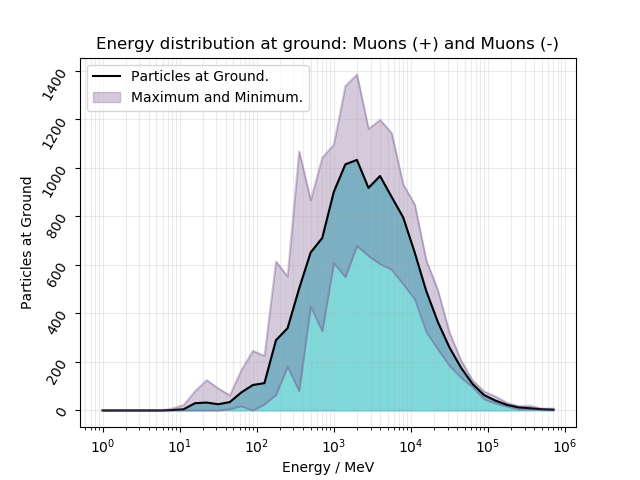
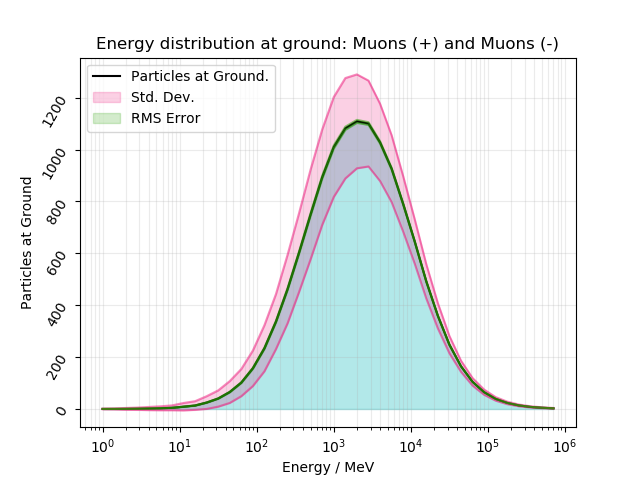
Minimal Changes:  - Removed Minimum and Maximum, Added Std.Dev. and RMS Error to diagrams.  - New data to plot, with much more showers in simulation.

diff --git a/AIRES/represent.py b/AIRES/represent.py
@@ -122,26 +122,26 @@ class Represent:
         # Mean
         y = self.data_frame['Mean']
         plt.plot(x, y, color='#000000', label='Particles at Ground.')
-        ax.fill_between(x=x, y1=y, y2=0, color='#00B5B8', alpha=0.5)
+        ax.fill_between(x=x, y1=y, y2=0, color='#00B5B8', alpha=0.3)
 
         # Minimum and Maximum
-        ymin = self.data_frame['Minimum']
-        ymax = self.data_frame['Maximum.']
-        plt.plot(x, ymin, color='#74508D', alpha=0.25)
-        plt.plot(x, ymax, color='#74508D', alpha=0.25)
-        ax.fill_between(x=x, y1=ymin, y2=ymax, color='#74508D', alpha=0.3, label='Maximum and Minimum.')
+        # ymin = self.data_frame['Minimum']
+        # ymax = self.data_frame['Maximum.']
+        # plt.plot(x, ymin, color='#74508D', alpha=0.25)
+        # plt.plot(x, ymax, color='#74508D', alpha=0.25)
+        # ax.fill_between(x=x, y1=ymin, y2=ymax, color='#74508D', alpha=0.3, label='Maximum and Minimum.')
 
         # Std. Dev.
-        # ystd = self.data_frame['Std. Dev.'] / 2
-        # plt.plot(x, y - ystd, color='#ED177A', alpha=0.25)
-        # plt.plot(x, y + ystd, color='#ED177A', alpha=0.25)
-        # ax.fill_between(x=x, y1=y - ystd, y2=y + ystd, color='#ED177A', alpha=0.2, label='Std. Dev.')
+        ystd = self.data_frame['Std. Dev.'] / 2
+        plt.plot(x, y - ystd, color='#ED177A', alpha=0.5)
+        plt.plot(x, y + ystd, color='#ED177A', alpha=0.5)
+        ax.fill_between(x=x, y1=y - ystd, y2=y + ystd, color='#ED177A', alpha=0.2, label='Std. Dev.')
 
         # RMS Error.
-        # yrms = self.data_frame['RMS Error'] / 2
-        # plt.plot(x, y - yrms, color='#279F00', alpha=0.25)
-        # plt.plot(x, y + yrms, color='#279F00', alpha=0.25)
-        # ax.fill_between(x=x, y1=y - yrms, y2=y + yrms, color='#279F00', alpha=0.2, label='RMS Error')
+        yrms = self.data_frame['RMS Error'] / 2
+        plt.plot(x, y - yrms, color='#279F00', alpha=0.5)
+        plt.plot(x, y + yrms, color='#279F00', alpha=0.5)
+        ax.fill_between(x=x, y1=y - yrms, y2=y + yrms, color='#279F00', alpha=0.2, label='RMS Error')
 
         # Config
         ax.set_xlabel(f'Energy / {self.units["Energy"]}')
